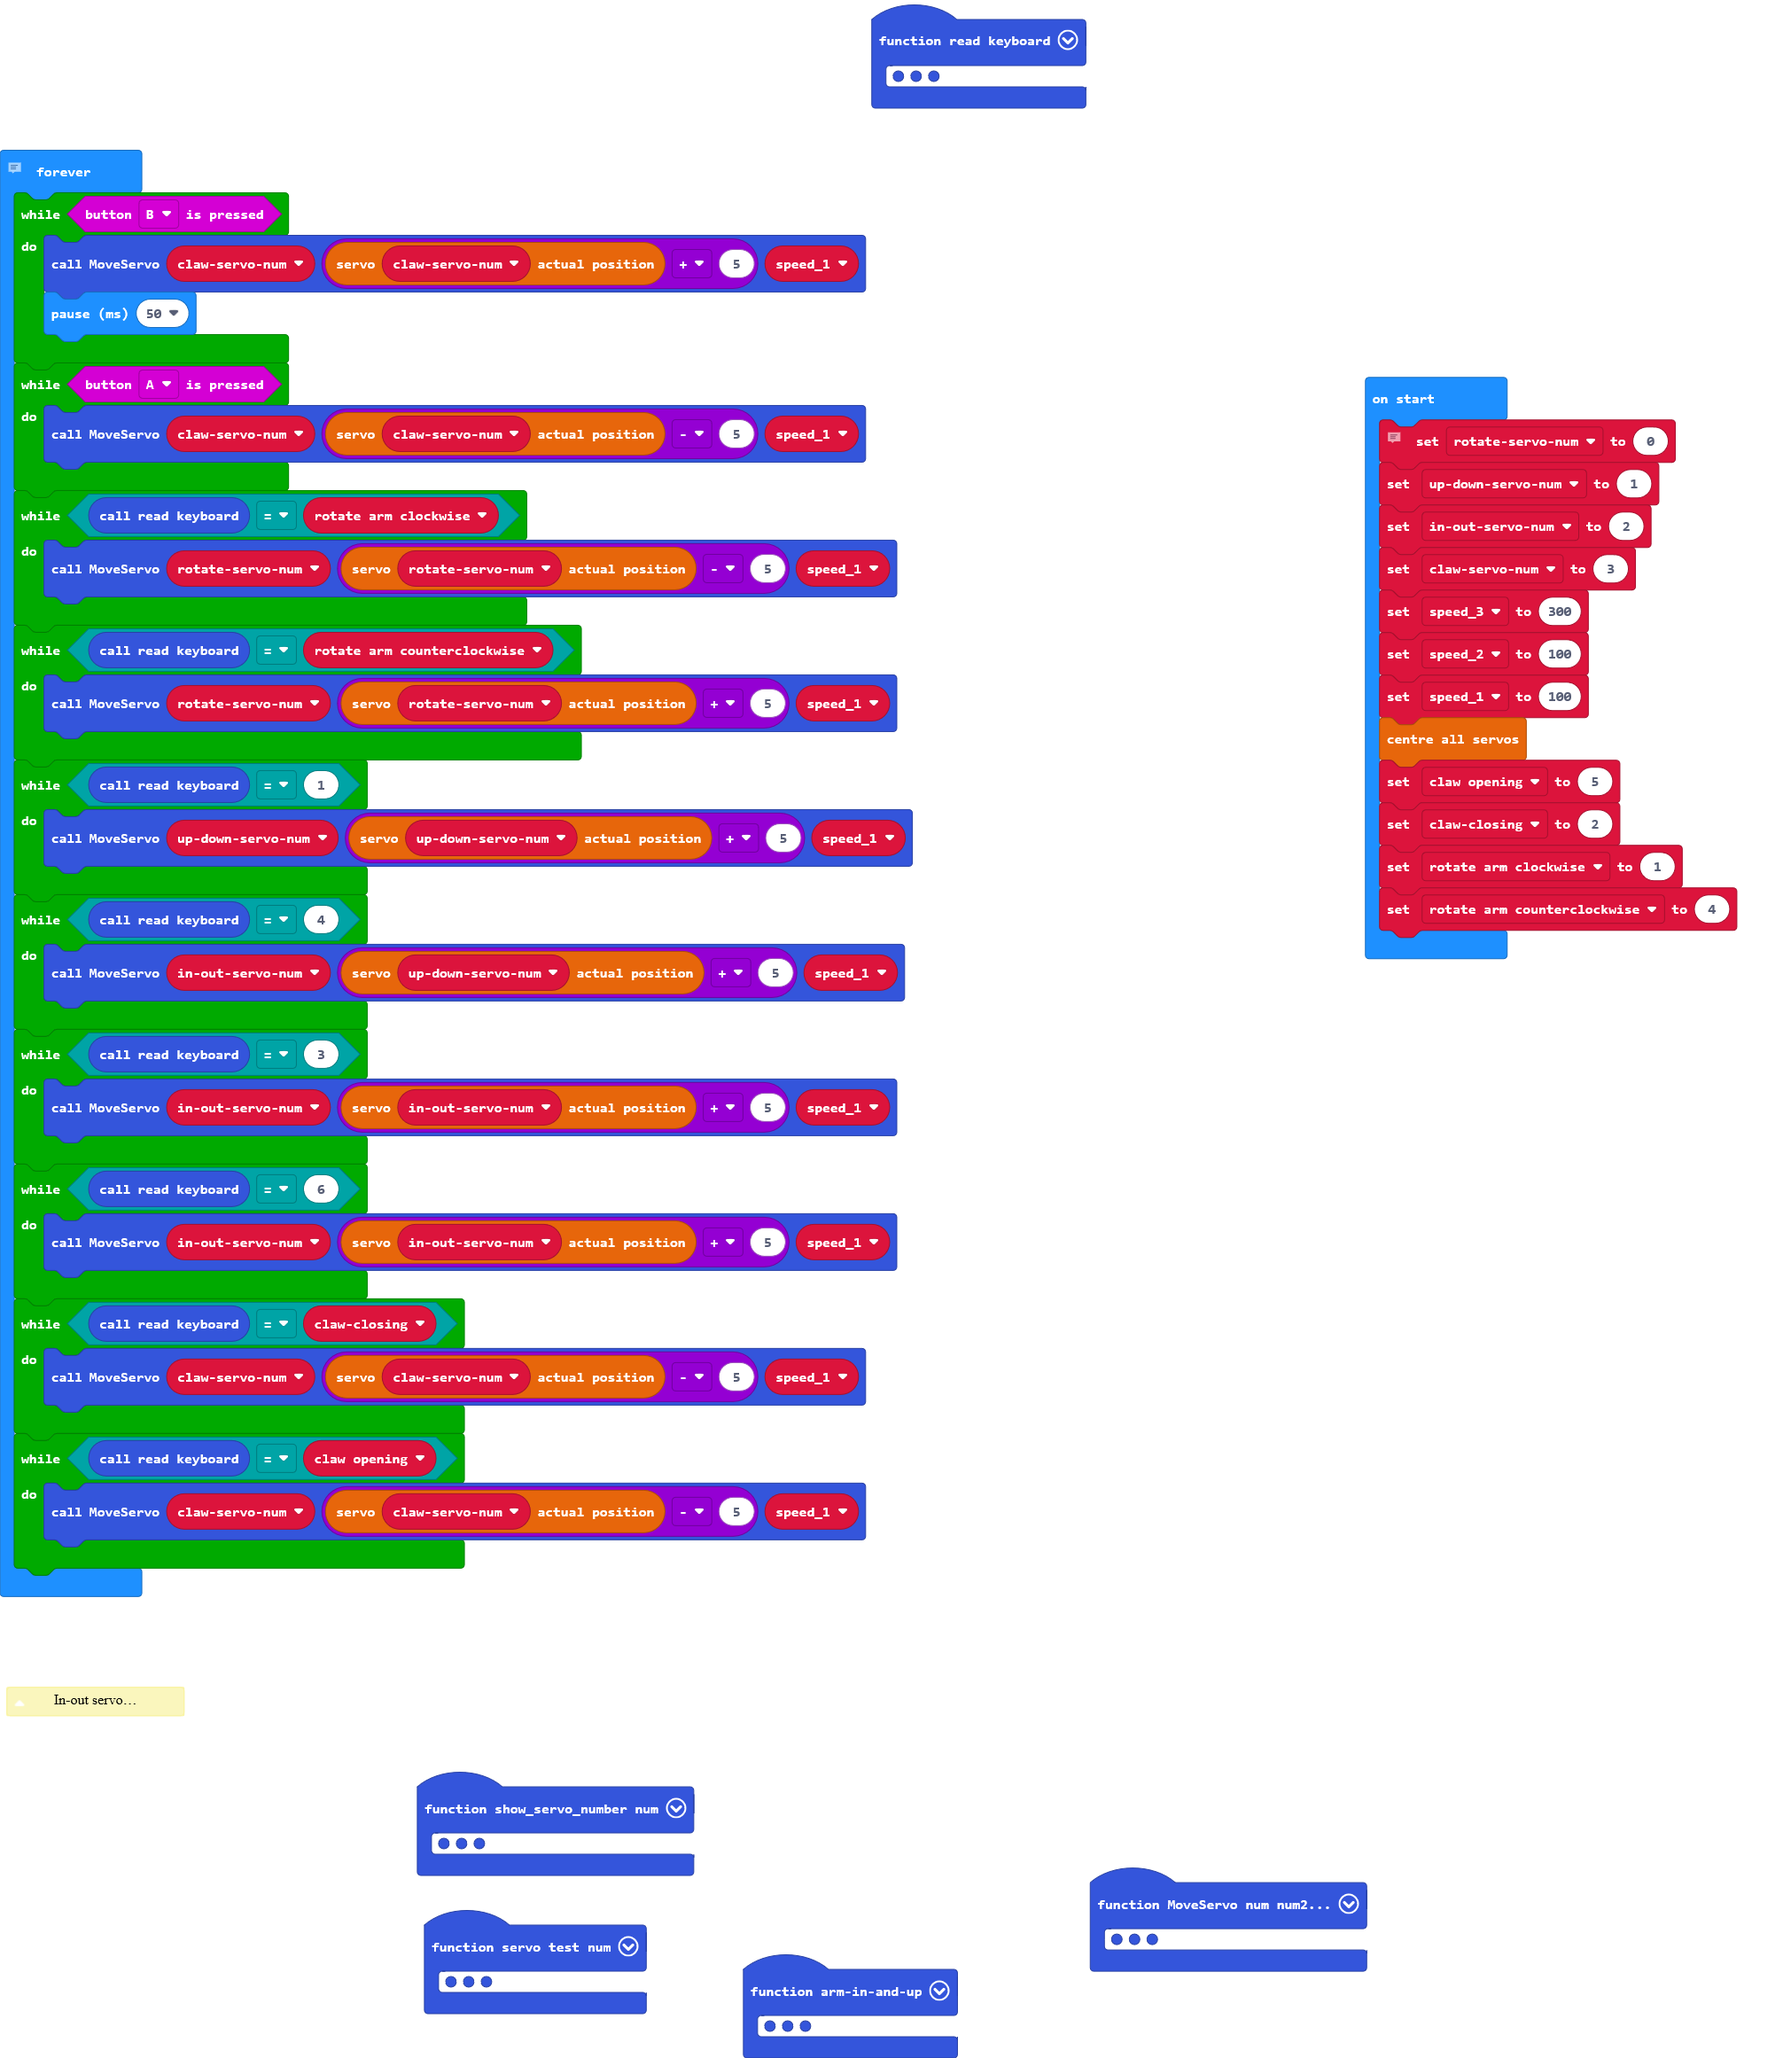
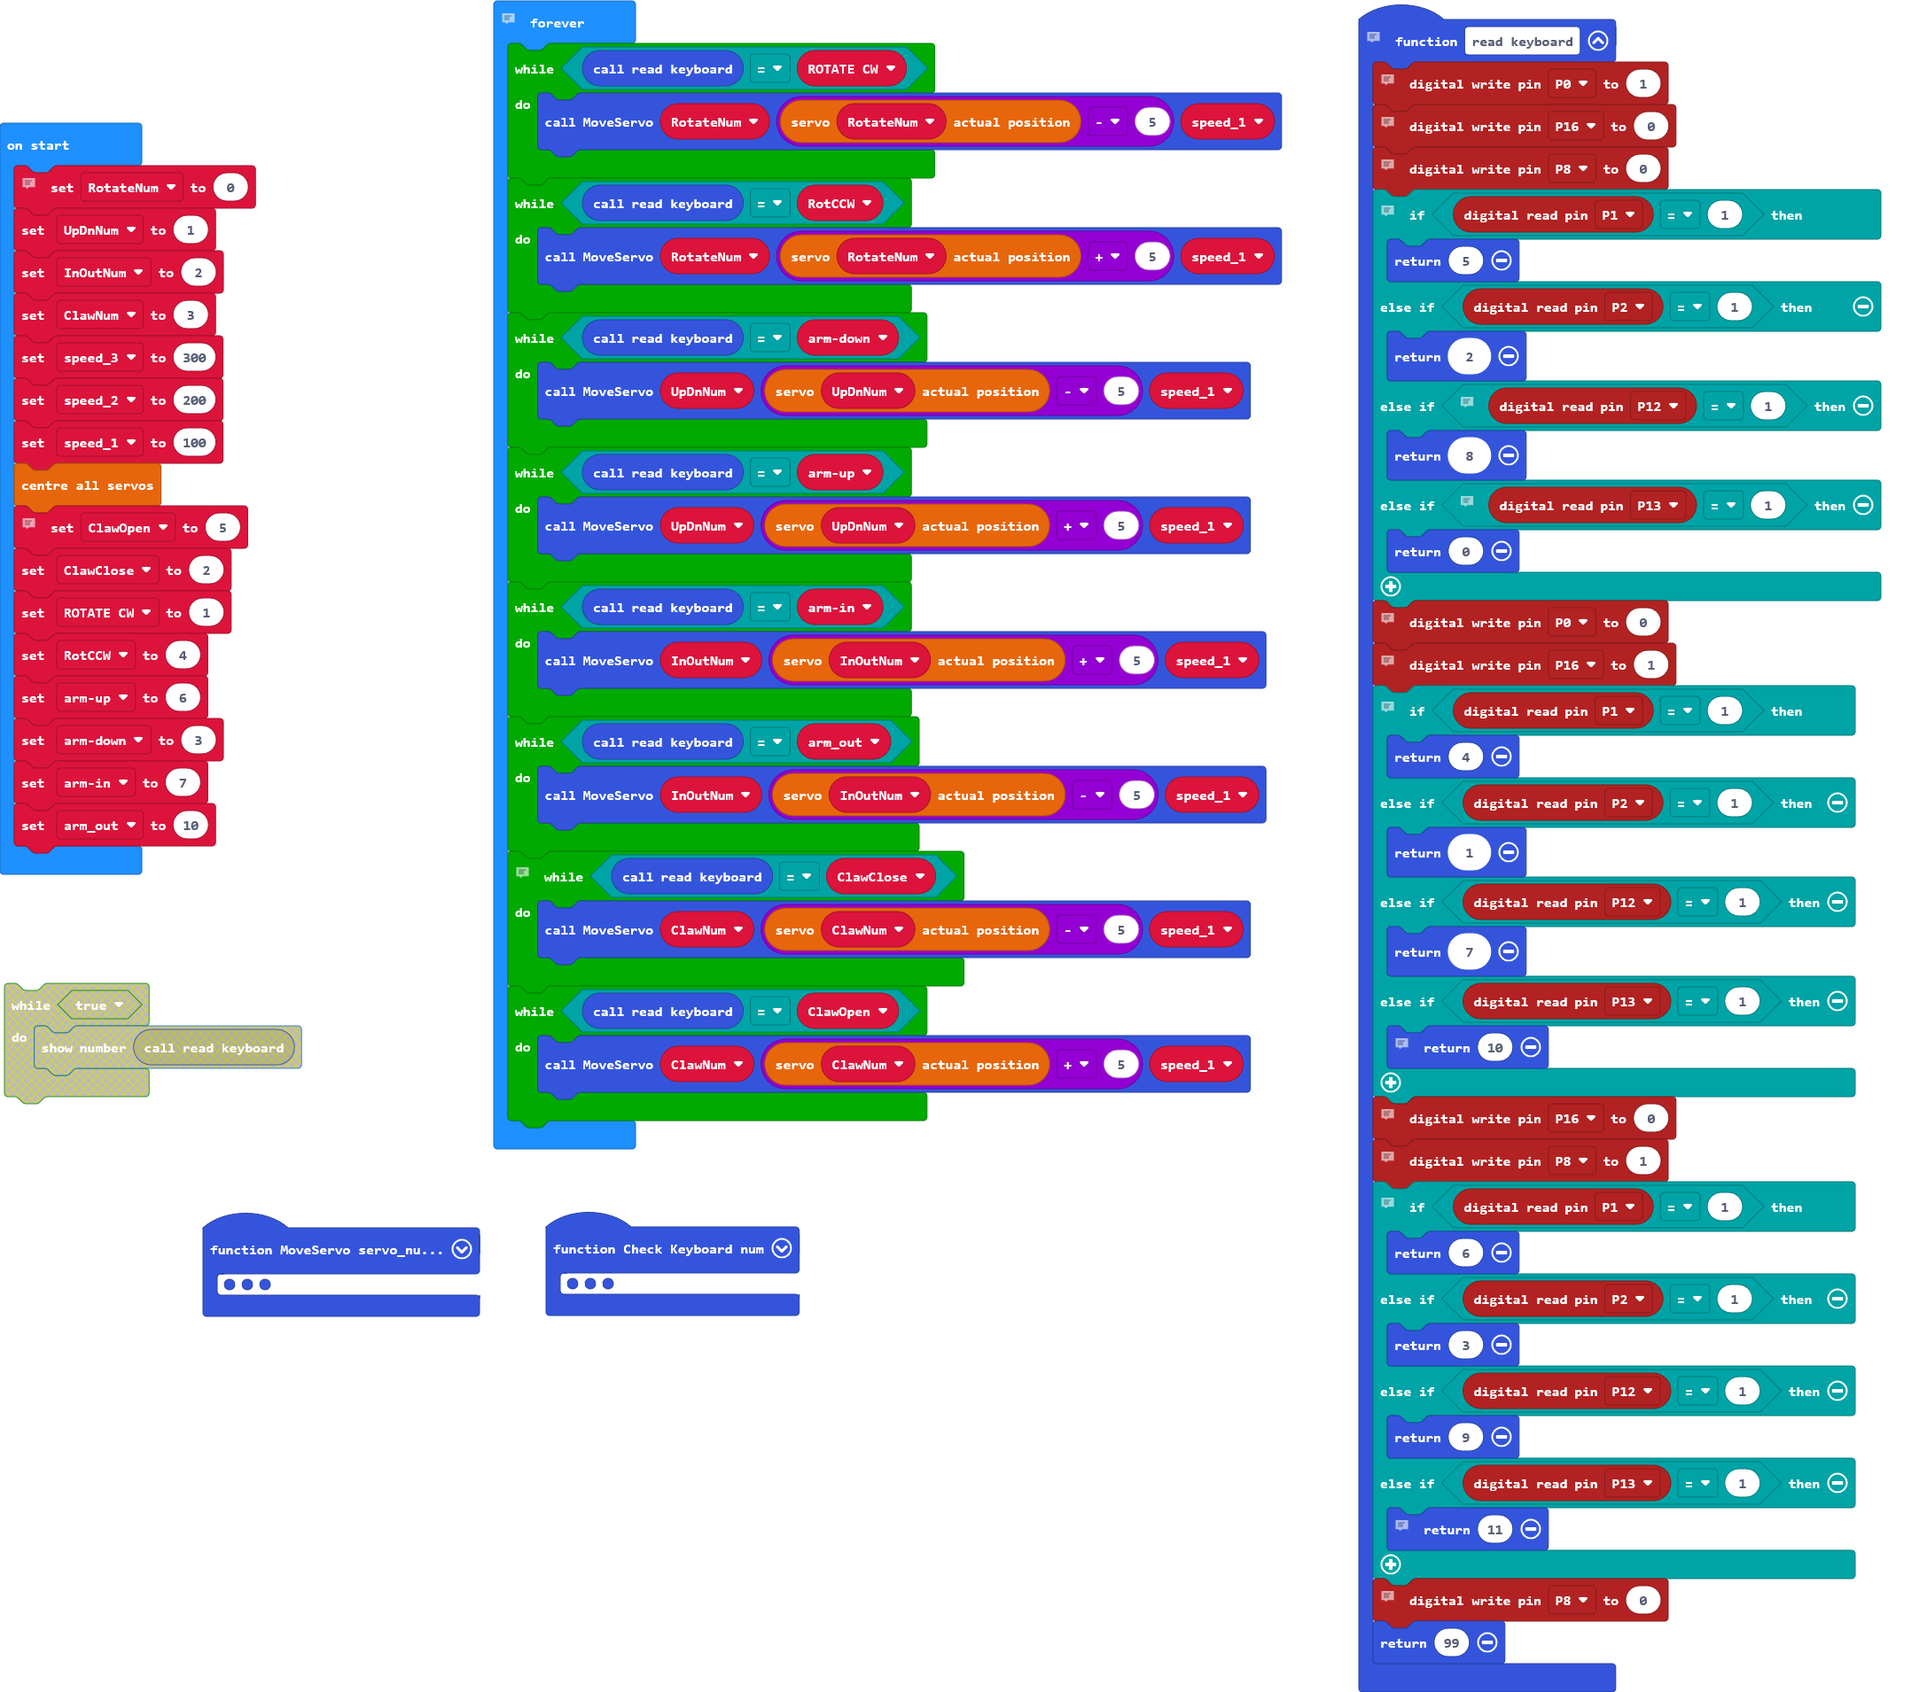
Update main.blocks, main.ts

diff --git a/main.ts b/main.ts
@@ -1,50 +1,13 @@
-/**
- * In-out servo limits are 0 to -35
- */
-function MoveServo (num: number, num2: number, num3: number) {
-    ServoBit.moveServo(num, num2, num3)
-    ServoBit.waitServo(num)
-}
-function show_servo_number (num: number) {
-    basic.showNumber(ServoBit.getServoActual(num))
-    basic.pause(200)
-}
-function servo_test (num: number) {
-    if (num == 0) {
-        MoveServo(num, 45, speed_1)
-        show_servo_number(0)
-        MoveServo(num, -45, speed_1)
-        show_servo_number(0)
-        MoveServo(num, 0, speed_1)
-        return 1
-    } else if (num == 1) {
-        MoveServo(1, 0, speed_1)
-        show_servo_number(num)
-        MoveServo(1, -35, speed_1)
-        show_servo_number(num)
-        MoveServo(num, 0, speed_1)
-        return 1
-    } else if (num == 2) {
-        MoveServo(num, 60, speed_1)
-        show_servo_number(0)
-        MoveServo(num, 30, speed_1)
-        show_servo_number(0)
-        MoveServo(num, 0, speed_1)
-        return 1
-    } else if (num == 3) {
-        MoveServo(num, 45, speed_1)
-        show_servo_number(num)
-        MoveServo(num, -45, speed_1)
-        show_servo_number(num)
-        MoveServo(num, 0, speed_1)
-        return 1
+function Check_Keyboard (num: number) {
+    while (num == 1) {
+        basic.showNumber(read_keyboard())
+        basic.pause(100)
+        basic.clearScreen()
     }
-    basic.showIcon(IconNames.No)
-    return 99
 }
-function arminandup () {
-    let armin = 0
-    servo_current_pos = ServoBit.getServoActual(armin)
+function MoveServo (servo_num: number, how_far: number, how_fast: number) {
+    ServoBit.moveServo(servo_num, how_far, how_fast)
+    ServoBit.waitServo(servo_num)
 }
 // There are 12 keys on this 12 keys on this keypad.. We need numbers for the '*' key and the '#' key.
 // '*'  will be 10
@@ -54,6 +17,10 @@ function arminandup () {
 function read_keyboard () {
     // P0 col with zero at bottom
     pins.digitalWritePin(DigitalPin.P0, 1)
+    // P0 col with zero at bottom
+    pins.digitalWritePin(DigitalPin.P16, 0)
+    // P0 col with zero at bottom
+    pins.digitalWritePin(DigitalPin.P8, 0)
     // P1 row with the 4 on it 
     // P1
     // P1
@@ -64,8 +31,6 @@ function read_keyboard () {
     } else if (pins.digitalReadPin(DigitalPin.P12) == 1) {
         return 8
     } else if (pins.digitalReadPin(DigitalPin.P13) == 1) {
-        // P0 col with zero at bottom
-        pins.digitalWritePin(DigitalPin.P13, 1)
         return 0
     }
     // P0 col with zero at bottom
@@ -89,68 +54,67 @@ function read_keyboard () {
     pins.digitalWritePin(DigitalPin.P8, 1)
     // P1 row with the 4 on it 
     if (pins.digitalReadPin(DigitalPin.P1) == 1) {
-        return 3
-    } else if (pins.digitalReadPin(DigitalPin.P2) == 1) {
         return 6
+    } else if (pins.digitalReadPin(DigitalPin.P2) == 1) {
+        return 3
     } else if (pins.digitalReadPin(DigitalPin.P12) == 1) {
         return 9
-    } else if (pins.digitalReadPin(DigitalPin.P2) == 1) {
+    } else if (pins.digitalReadPin(DigitalPin.P13) == 1) {
         // same as # key
-        return 12
+        return 11
     }
     // P0 col with zero at bottom
     pins.digitalWritePin(DigitalPin.P8, 0)
-    return 98
+    return 99
 }
-let servo_current_pos = 0
-let speed_1 = 0
 // the numbers on the right side of each of these needs to be the same as the slot or connector number on the micro-bit motor board.
 // Example is the servo that rotates the arm has a variable called rotate-servo-num. It has the value 0. So the rotate servo needs to be plugged into the "0" pins on the motor board.
-let rotateservonum = 0
-let updownservonum = 1
-let inoutservonum = 2
-let clawservonum = 3
+let RotateNum = 0
+let UpDnNum = 1
+let InOutNum = 2
+let ClawNum = 3
 let speed_3 = 300
-let speed_2 = 100
-speed_1 = 100
+let speed_2 = 200
+let speed_1 = 100
 ServoBit.centreServos()
-let claw_opening = 5
-let clawclosing = 2
-let rotate_arm_clockwise = 1
-let rotate_arm_counterclockwise = 4
+// this is the key board number assigned to open claw. It can be changed of you want a different key to open claw.
+// This is the same for all the  arm commands , like ROTATE CLOCKWISE. 
+// If you want to make ROTATE to be key 2 for example you would set ROTATE CLOCKWISE to 2.
+let ClawOpen = 5
+let ClawClose = 2
+let ROTATE_CW = 1
+let RotCCW = 4
+let armup = 6
+let armdown = 3
+let armin = 7
+let arm_out = 10
 // 
 // Each time through the forever loop all 12 keys are checked for someone pressing a key.
 // When the key is pressed the position of the servo is measured. In other words if the up/down arm key is pressed the position of the arm is measured  then 5 degrees is added to go down or subtracted to go up.
 basic.forever(function () {
-    while (input.buttonIsPressed(Button.B)) {
-        MoveServo(clawservonum, ServoBit.getServoActual(clawservonum) + 5, speed_1)
-        basic.pause(50)
+    while (read_keyboard() == ROTATE_CW) {
+        MoveServo(RotateNum, ServoBit.getServoActual(RotateNum) - 5, speed_1)
     }
-    while (input.buttonIsPressed(Button.A)) {
-        MoveServo(clawservonum, ServoBit.getServoActual(clawservonum) - 5, speed_1)
+    while (read_keyboard() == RotCCW) {
+        MoveServo(RotateNum, ServoBit.getServoActual(RotateNum) + 5, speed_1)
     }
-    while (read_keyboard() == rotate_arm_clockwise) {
-        MoveServo(rotateservonum, ServoBit.getServoActual(rotateservonum) - 5, speed_1)
+    while (read_keyboard() == armdown) {
+        MoveServo(UpDnNum, ServoBit.getServoActual(UpDnNum) - 5, speed_1)
     }
-    while (read_keyboard() == rotate_arm_counterclockwise) {
-        MoveServo(rotateservonum, ServoBit.getServoActual(rotateservonum) + 5, speed_1)
+    while (read_keyboard() == armup) {
+        MoveServo(UpDnNum, ServoBit.getServoActual(UpDnNum) + 5, speed_1)
     }
-    while (read_keyboard() == 1) {
-        MoveServo(updownservonum, ServoBit.getServoActual(updownservonum) + 5, speed_1)
+    while (read_keyboard() == armin) {
+        MoveServo(InOutNum, ServoBit.getServoActual(InOutNum) + 5, speed_1)
     }
-    while (read_keyboard() == 4) {
-        MoveServo(inoutservonum, ServoBit.getServoActual(updownservonum) + 5, speed_1)
+    while (read_keyboard() == arm_out) {
+        MoveServo(InOutNum, ServoBit.getServoActual(InOutNum) - 5, speed_1)
     }
-    while (read_keyboard() == 3) {
-        MoveServo(inoutservonum, ServoBit.getServoActual(inoutservonum) + 5, speed_1)
+    // claw close
+    while (read_keyboard() == ClawClose) {
+        MoveServo(ClawNum, ServoBit.getServoActual(ClawNum) - 5, speed_1)
     }
-    while (read_keyboard() == 6) {
-        MoveServo(inoutservonum, ServoBit.getServoActual(inoutservonum) + 5, speed_1)
-    }
-    while (read_keyboard() == clawclosing) {
-        MoveServo(clawservonum, ServoBit.getServoActual(clawservonum) - 5, speed_1)
-    }
-    while (read_keyboard() == claw_opening) {
-        MoveServo(clawservonum, ServoBit.getServoActual(clawservonum) - 5, speed_1)
+    while (read_keyboard() == ClawOpen) {
+        MoveServo(ClawNum, ServoBit.getServoActual(ClawNum) + 5, speed_1)
     }
 })
